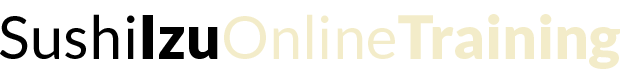
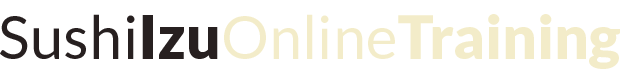
Colour tweaks, News uses posts

Changed region(s): [[0.0, 0.1867, 0.3677, 0.8]]

diff --git a/css/style.css b/css/style.css
@@ -1562,7 +1562,7 @@ p.lead {
 
 .subheader {
   line-height: 1.4;
-  color: #313030;
+  color: #272020;
   font-weight: 300;
   margin-top: 0.2em;
   margin-bottom: 0.5em;
@@ -1664,7 +1664,7 @@ h6 {
 }
 
 hr {
-  border: solid #313030;
+  border: solid #272020;
   border-width: 1px 0 0;
   clear: both;
   margin: 1.25em 0 1.1875em;
@@ -4574,7 +4574,7 @@ kbd {
   color: #f3ecc9;
 }
 .side-nav li.active a {
-  color: black;
+  color: #272020;
   font-weight: bold;
 }
 .side-nav li.divider {
@@ -5073,7 +5073,7 @@ table tfoot tr td {
 }
 
 body {
-  background-color: #313030;
+  background-color: #272020;
 }
 body header.row, body #left_side_bar, body footer.row.full-width {
   background-color: #cd231f;
@@ -5095,11 +5095,14 @@ footer {
 }
 footer a {
   color: #f3ecc9;
+  font-weight: normal;
 }
 footer a:hover {
   color: white;
 }
 footer p {
+  color: #272020;
+  font-weight: bold;
   text-align: center;
 }
 

diff --git a/scss/_settings.scss b/scss/_settings.scss
@@ -7,7 +7,8 @@ $header-font-family: Lato, "Helvetica Neue", "Helvetica", Helvetica, Arial, sans
 $paragraph-font-family: Lato, "Helvetica Neue", "Helvetica", Helvetica, Arial, sans-serif;
 
 $red: #cd231f;
-$darkgrey: #313030;
+//$darkgrey: #313030;
+$darkgrey: #272020;
 $lightyellow: #f3ecc9;
 $extralightyellow: #faf7e8;
 
@@ -35,7 +36,7 @@ $side-nav-padding: emCalc(20px) 0;
 
 /* We use these to control link styles. */
 $side-nav-link-color: $lightyellow;
-$side-nav-link-color-active: black;
+$side-nav-link-color-active: $darkgrey;
 $side-nav-font-size: emCalc(18px);
 $side-nav-font-weight: bold;
 

diff --git a/css/app.css b/css/app.css
@@ -1089,7 +1089,7 @@ p.lead {
 
 .subheader {
   line-height: 1.4;
-  color: #313030;
+  color: #272020;
   font-weight: 300;
   margin-top: 0.2em;
   margin-bottom: 0.5em;
@@ -1190,7 +1190,7 @@ h6 {
 }
 
 hr {
-  border: solid #313030;
+  border: solid #272020;
   border-width: 1px 0 0;
   clear: both;
   margin: 1.25em 0 1.1875em;
@@ -3572,7 +3572,7 @@ kbd {
   color: #f3ecc9;
 }
 .side-nav li.active a {
-  color: black;
+  color: #272020;
   font-weight: bold;
 }
 .side-nav li.divider {

diff --git a/scss/style.scss b/scss/style.scss
@@ -39,11 +39,14 @@ footer {
 	padding-top: 15px; 
 	a {
 		color: $lightyellow;
+		font-weight: normal;
 		&:hover {
 			color: white;
 		}
 	}
 	p {
+		color: $darkgrey;
+		font-weight: bold;
 		text-align: center;
 		@media only screen and (min-width:1000px)  {
 			

diff --git a/bak/page.php b/bak/page.php
@@ -7,19 +7,15 @@
 	<?php while (have_posts()) : the_post(); ?>
 		<article <?php post_class() ?> id="post-<?php the_ID(); ?>">
 			<header>
-				<h3 class="entry-title"><?php the_title(); ?></h3>
-				<?php echo '<time class="updated" datetime="'. get_the_time('c') .'" pubdate>'. sprintf(__('Posted on %s at %s.', 'reverie'), get_the_time('l, F jS, Y'), get_the_time()) .'</time>'; ?>
+				<h1 class="entry-title"><?php the_title(); ?></h1>
 			</header>
 			<div class="entry-content">
 				<?php the_content(); ?>
 			</div>
-			
-			<p class="byline author">
-				<?php echo '<a href="'. get_author_posts_url(get_the_author_meta('ID')) .'" rel="author" class="fn">'. get_the_author() .'</a>';?>
-			</p>
+			<footer>
 				<?php wp_link_pages(array('before' => '<nav id="page-nav"><p>' . __('Pages:', 'reverie'), 'after' => '</p></nav>' )); ?>
 				<p><?php the_tags(); ?></p>
-			
+			</footer>
 		</article>
 	<?php endwhile; // End the loop ?>
 

diff --git a/functions.php b/functions.php
@@ -66,7 +66,10 @@ foreach ($sidebars as $sidebar) {
 
 // return entry meta information for posts, used by multiple loops.
 function reverie_entry_meta() {
-	echo '<time class="updated" datetime="'. get_the_time('c') .'" pubdate>'. sprintf(__('Posted on %s at %s.', 'reverie'), get_the_time('l, F jS, Y'), get_the_time()) .'</time>';
-	echo '<p class="byline author">'. __('Written by', 'reverie') .' <a href="'. get_author_posts_url(get_the_author_meta('ID')) .'" rel="author" class="fn">'. get_the_author() .'</a></p>';
+	echo '<p class="byline author">
+		<a href="'. get_author_posts_url(get_the_author_meta('ID')) .'" rel="author" class="fn">'. get_the_author() .'</a>
+	</p>
+	<time class="updated" datetime="'. get_the_time('c') .'" pubdate>'. sprintf(__('Posted on %s at %s.', 'reverie'), get_the_time('l, F jS, Y'), get_the_time()) .'</time>
+	';
 }
 ?>

diff --git a/page.php b/page.php
@@ -7,7 +7,7 @@
 	<?php while (have_posts()) : the_post(); ?>
 		<article <?php post_class() ?> id="post-<?php the_ID(); ?>">
 			<header>
-				<h1 class="entry-title"><?php the_title(); ?></h1>
+				<h3 class="entry-title"><?php the_title(); ?></h3>
 			</header>
 			<div class="entry-content">
 				<?php the_content(); ?>
